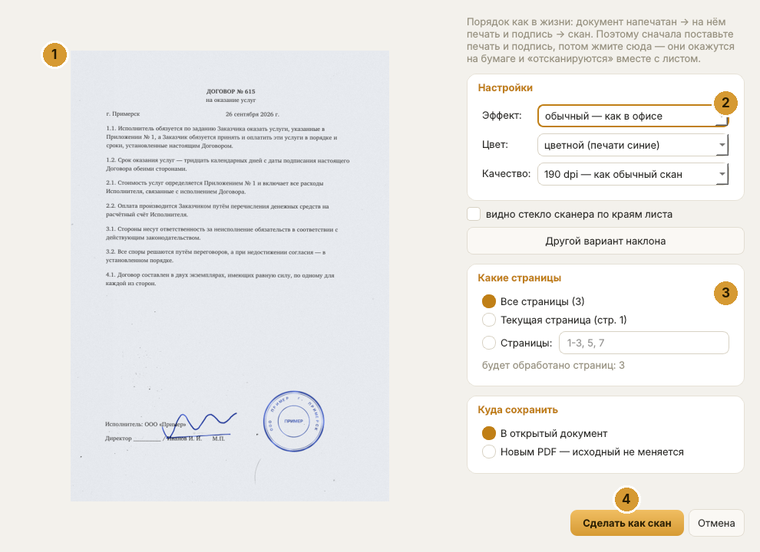
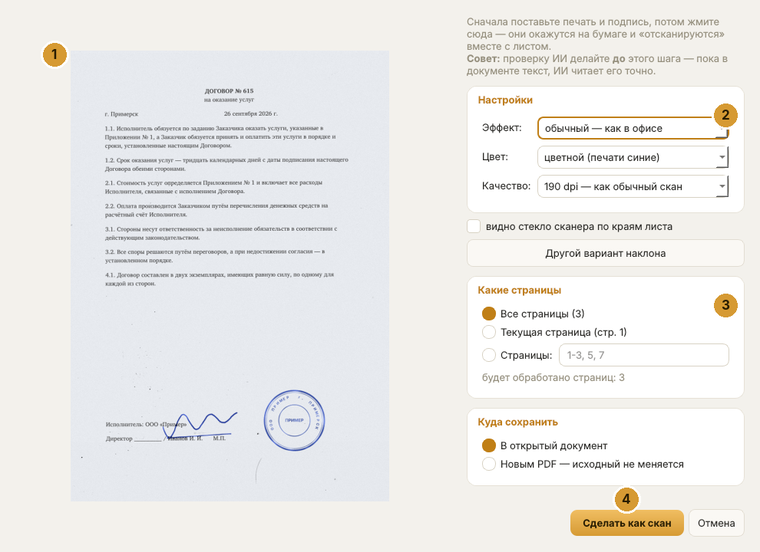
6.4.8: подсказка о порядке работы — проверка ИИ до «Как скан» (окно, помощник, справка)
Claude-Session: https://claude.ai/code/session_01S2yJaDiaX6YUxFfadFNC79

diff --git a/stamp_studio_canon.py b/stamp_studio_canon.py
@@ -511,7 +511,7 @@ QProgressBar::chunk { background: #d69a33; border-radius: 3px; }
 SETTINGS_JSON = os.path.join(LIB_DIR, "settings.json")
 
 # ---------------------------------------------------------------- версия и обновления
-APP_VERSION = "6.4.7"
+APP_VERSION = "6.4.8"
 EDITION = "canon"                 # main — основная, canon — для сканеров Canon
 APP_TITLE = "Stamp Studio" + (" Canon" if EDITION == "canon" else "")
 GITHUB_URL = "https://github.com/alegawhats-del/StampStudio"
@@ -4823,9 +4823,17 @@ class ScanLookDialog(QDialog):
 
         side = QVBoxLayout()
         side.setSpacing(8)
-        hint = QLabel("Порядок как в жизни: документ напечатан → на нём печать и подпись "
-                      "→ скан. Поэтому сначала поставьте печать и подпись, потом жмите "
-                      "сюда — они окажутся на бумаге и «отсканируются» вместе с листом.")
+        tip_ai = ""
+        try:
+            if any(AI.page_has_text(src_doc[i]) and not AI.is_scan_page(src_doc[i])
+                   for i in range(src_doc.page_count)):
+                tip_ai = ("<br><b>Совет:</b> проверку ИИ делайте <b>до</b> этого шага — пока в документе "
+                          "текст, ИИ читает его точно.")
+        except Exception:
+            pass
+        hint = QLabel("Сначала поставьте печать и подпись, потом жмите сюда — они окажутся "
+                      "на бумаге и «отсканируются» вместе с листом." + tip_ai)
+        hint.setTextFormat(Qt.RichText)
         hint.setObjectName("hint")
         hint.setWordWrap(True)
         side.addWidget(hint)
@@ -6159,6 +6167,9 @@ class AiCenterDialog(QDialog):
             "искажены буквы. Чем читал последний ответ — написано внизу окна.</p>"
             "<p><b>Счётчик.</b> Слева видно, сколько запросов сделано сегодня у каждого сервиса. "
             "Когда лимит близко, полоска краснеет, а программа сама начинает со следующего сервиса.</p>"
+            "<p><b>Порядок работы.</b> Если документ ещё с текстом (из Word, не скан) — сначала "
+            "проверка и данные, потом печать с подписью, и только в конце «Как скан». "
+            "Пока текст настоящий, ИИ читает его без ошибок и одним запросом.</p>"
             "<p>ИИ может ошибаться — цифры и реквизиты сверяйте с документом.</p>")
         self.home.setVisible(True)
 

diff --git a/stamp_studio.py b/stamp_studio.py
@@ -511,7 +511,7 @@ QProgressBar::chunk { background: #d69a33; border-radius: 3px; }
 SETTINGS_JSON = os.path.join(LIB_DIR, "settings.json")
 
 # ---------------------------------------------------------------- версия и обновления
-APP_VERSION = "6.4.7"
+APP_VERSION = "6.4.8"
 EDITION = "main"                 # main — основная, canon — для сканеров Canon
 APP_TITLE = "Stamp Studio" + (" Canon" if EDITION == "canon" else "")
 GITHUB_URL = "https://github.com/alegawhats-del/StampStudio"
@@ -4824,9 +4824,17 @@ class ScanLookDialog(QDialog):
 
         side = QVBoxLayout()
         side.setSpacing(8)
-        hint = QLabel("Порядок как в жизни: документ напечатан → на нём печать и подпись "
-                      "→ скан. Поэтому сначала поставьте печать и подпись, потом жмите "
-                      "сюда — они окажутся на бумаге и «отсканируются» вместе с листом.")
+        tip_ai = ""
+        try:
+            if any(AI.page_has_text(src_doc[i]) and not AI.is_scan_page(src_doc[i])
+                   for i in range(src_doc.page_count)):
+                tip_ai = ("<br><b>Совет:</b> проверку ИИ делайте <b>до</b> этого шага — пока в документе "
+                          "текст, ИИ читает его точно.")
+        except Exception:
+            pass
+        hint = QLabel("Сначала поставьте печать и подпись, потом жмите сюда — они окажутся "
+                      "на бумаге и «отсканируются» вместе с листом." + tip_ai)
+        hint.setTextFormat(Qt.RichText)
         hint.setObjectName("hint")
         hint.setWordWrap(True)
         side.addWidget(hint)
@@ -6160,6 +6168,9 @@ class AiCenterDialog(QDialog):
             "искажены буквы. Чем читал последний ответ — написано внизу окна.</p>"
             "<p><b>Счётчик.</b> Слева видно, сколько запросов сделано сегодня у каждого сервиса. "
             "Когда лимит близко, полоска краснеет, а программа сама начинает со следующего сервиса.</p>"
+            "<p><b>Порядок работы.</b> Если документ ещё с текстом (из Word, не скан) — сначала "
+            "проверка и данные, потом печать с подписью, и только в конце «Как скан». "
+            "Пока текст настоящий, ИИ читает его без ошибок и одним запросом.</p>"
             "<p>ИИ может ошибаться — цифры и реквизиты сверяйте с документом.</p>")
         self.home.setVisible(True)
 

diff --git a/tools/make_guide.py b/tools/make_guide.py
@@ -361,6 +361,9 @@ pair.paste(after, (0, before.height + 46))
 html = ("<h1>Сделать «как скан»</h1>"
         "<p>Порядок как в жизни: документ напечатали → поставили печать и расписались → отсканировали. "
         "Поэтому <b>сначала печать и подпись, потом «Как скан»</b> — они окажутся на бумаге и «отсканируются» вместе с листом.</p>"
+        "<p class='note'><b>Проверку ИИ делайте до «Как скан».</b> Пока документ с настоящим текстом (из Word), "
+        "ИИ читает его точно и одним запросом. После «скана» страницы становятся картинками — ИИ читает их хуже "
+        "и тратит больше запросов.</p>"
         + save(dlg_im, "06_scanlook.png") +
         "<ol><li>Слева — как будет выглядеть страница.</li>"
         "<li><b>Эффект</b>: лёгкий, обычный или сильный. <b>Цвет</b>: цветной или чёрно-белый. "
@@ -482,6 +485,12 @@ html = ("<h1>ИИ-помощник</h1>"
         "(что именно — в разделе «ИИ: ключи и автоматика»).</li>"
         "<li>Результат «Поставить печать и подпись на место»: программа нашла «М.П.» и строку подписи. "
         "Всё можно подвинуть мышью.</li></ol>"
+        "<h2>Правильный порядок</h2>"
+        "<ol><li><b>Проверить перед отправкой</b> и, если нужно, <b>Данные из документа</b> — пока в документе настоящий текст.</li>"
+        "<li>Поставить <b>печать и подпись</b> (вручную или «на место»).</li>"
+        "<li><b>Как скан</b> — в открытый документ или новым PDF.</li>"
+        "<li><b>Предложить имя файла</b> и сохранить.</li></ol>"
+        "<p>Если документ пришёл уже сканом, порядок не важен: ИИ читает его изображениями в любом случае.</p>"
         "<h2>Что умеет</h2>"
         "<table cellpadding='6'>"
         + "".join(f"<tr><td class='key'>{k}</td><td><b>{t}</b><br>{d}</td></tr>" for k, t, d in [

diff --git a/NOTES.md b/NOTES.md
@@ -1,3 +1,4 @@
+• Подсказка о порядке работы: проверку ИИ делайте до «Как скан», пока в документе настоящий текст — написано в окне «Как скан», в окне ИИ-помощника и в справке
 • Окно «ИИ-помощник» (кнопка «ИИ», Ctrl+Shift+I): выбор сервиса, счётчик запросов по каждому сервису, все пять функций и результат в одном окне
 • Проверка документа больше не принимает ошибки распознавания за опечатки: сканы читаются изображениями, длинные документы — частями по 4 страницы; ИИ знает сегодняшнюю дату
 • Сервис с выбранным дневным лимитом сам уходит в конец очереди
